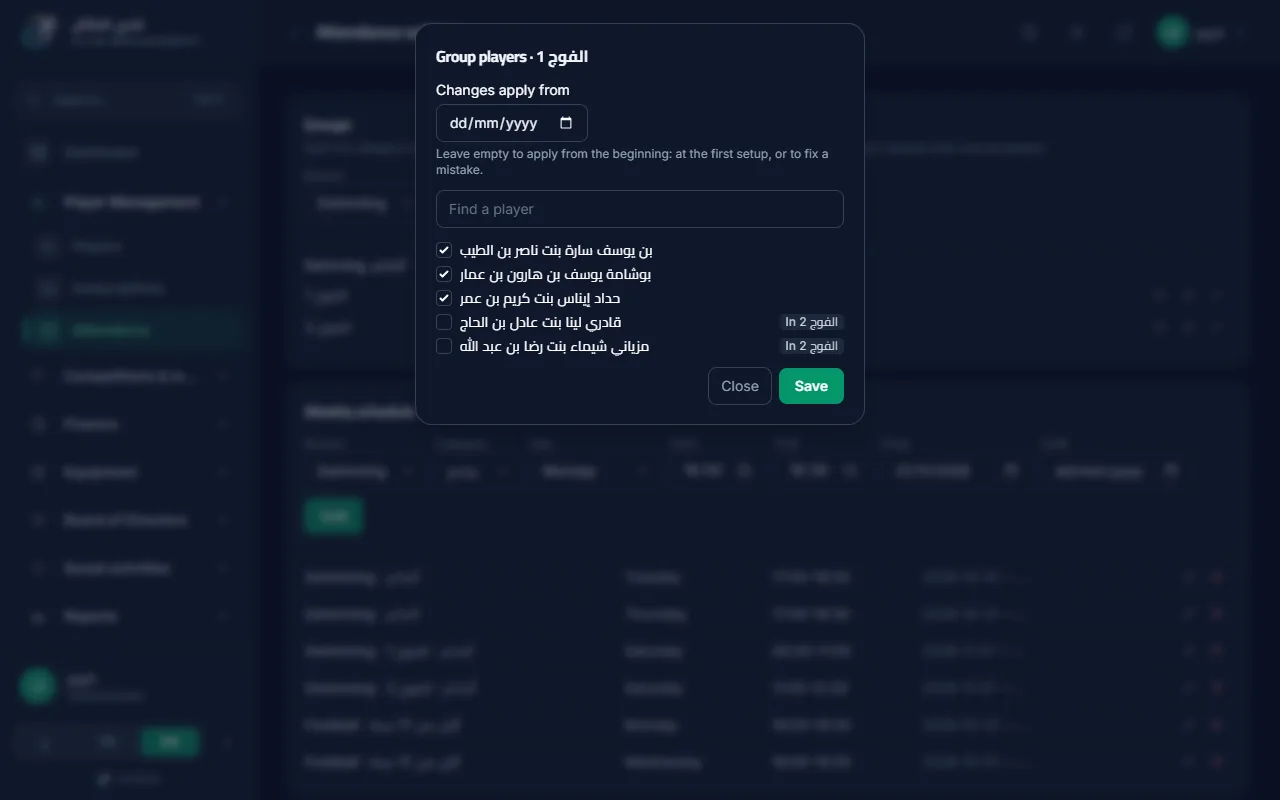
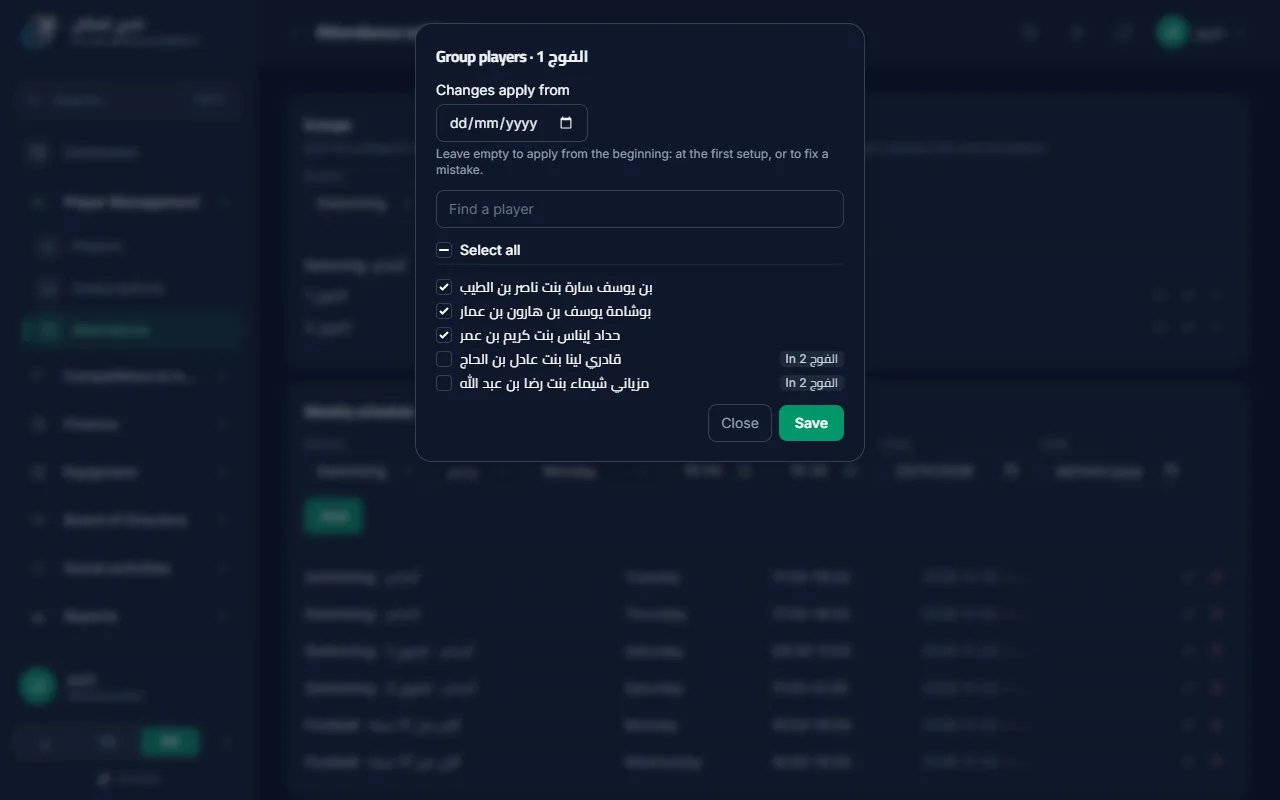
feat(attendance): select all in the group players dialog; its date reaches every ticked player
The dialog sends every ticked player, not only the new ones, so an earlier or
empty "changes apply from" date moves a late start back (players added with
today's date to a group that already had members missed the sessions before).
Today's date leaves players already in the group as they are, and a changed
date alone is now saved. A «select all» box ticks the players shown by the search.

Changed region(s): [[0.3438, 0.2812, 0.5312, 0.5], [0.5625, 0.375, 0.6875, 0.5625]]

diff --git a/resources/js/Pages/Attendance/Partials/GroupsCard.vue b/resources/js/Pages/Attendance/Partials/GroupsCard.vue
@@ -6,7 +6,7 @@ import IconButton from '@/Components/IconButton.vue';
 import InputError from '@/Components/InputError.vue';
 import Modal from '@/Components/Modal.vue';
 import { categoriesForBranch } from '@/lib/categoryPicker';
-import { groupSections, memberChanges } from '@/lib/groupMembers';
+import { groupSections, memberSave, tickAll } from '@/lib/groupMembers';
 import { localToday } from '@/lib/localDate';
 
 const props = defineProps({
@@ -62,7 +62,7 @@ function destroy(group) {
 const sections = computed(() => groupSections(props.groups, props.rosters));
 const waitingOpen = ref(null); // the section key whose waiting names are shown
 
-// ---- Players of one group: a tick list, saved as changes from a date ----
+// ---- Players of one group: a tick list, saved from a date ----
 const open = ref(null); // the group being edited
 const ticked = ref([]);
 const from = ref('');
@@ -75,6 +75,13 @@ const shown = computed(() => {
     return q ? roster.value.filter((p) => p.name.toLowerCase().includes(q)) : roster.value;
 });
 const before = ref([]); // the group's members when the dialog opened: what the ticks are compared with
+const openedFrom = ref(''); // the date the dialog opened with: a changed date alone is worth a save
+// «Select all» ticks or unticks the players shown (the search narrows it).
+const allShown = computed(() => shown.value.length > 0 && shown.value.every((p) => ticked.value.includes(p.id)));
+const someShown = computed(() => !allShown.value && shown.value.some((p) => ticked.value.includes(p.id)));
+function toggleAll(on) {
+    ticked.value = tickAll(ticked.value, shown.value.map((p) => p.id), on);
+}
 function openPlayers(group) {
     open.value = group;
     query.value = '';
@@ -83,10 +90,12 @@ function openPlayers(group) {
     before.value = [...ticked.value];
     // An empty group is a first setup: from the beginning. Later changes default to today.
     from.value = group.members ? today : '';
+    openedFrom.value = from.value;
 }
 function savePlayers() {
-    const { add, remove } = memberChanges(before.value, ticked.value);
-    if (!add.length && !remove.length) {
+    // Every ticked player is sent, so the date reaches the ones already in the group too.
+    const { add, remove, changed } = memberSave(before.value, ticked.value);
+    if (!changed && from.value === openedFrom.value) {
         open.value = null;
         return;
     }
@@ -164,6 +173,10 @@ function savePlayers() {
                 </label>
                 <input v-model="query" type="text" :placeholder="t('att.group_find')" :aria-label="t('att.group_find')" :class="[input, 'block w-full']" />
                 <p v-if="!roster.length" class="text-sm text-slate-500 dark:text-slate-400">{{ t('att.group_no_players') }}</p>
+                <label v-if="shown.length" data-help="group-players-all" class="flex items-center gap-2 border-b border-slate-100 pb-1 text-sm font-medium dark:border-slate-800">
+                    <input type="checkbox" :checked="allShown" :indeterminate="someShown" class="rounded border-slate-300 text-primary-600 dark:border-slate-700 dark:bg-slate-900" @change="toggleAll($event.target.checked)" />
+                    {{ t('select_all') }}
+                </label>
                 <ul data-help="group-players-list" class="max-h-80 space-y-1 overflow-y-auto text-sm">
                     <li v-for="p in shown" :key="p.id">
                         <label class="flex items-center gap-2">

diff --git a/resources/js/lib/groupMembers.js b/resources/js/lib/groupMembers.js
@@ -1,8 +1,4 @@
-/**
- * What saving a group's tick list must send: the players ticked since the
- * dialog opened and the ones unticked. Only changes go to the server, so a
- * player nobody touched keeps their dates.
- */
+/** The players ticked since the dialog opened and the ones unticked. */
 export function memberChanges(before, ticked) {
     const was = new Set(before.map(Number));
     const now = new Set(ticked.map(Number));
@@ -11,6 +7,28 @@ export function memberChanges(before, ticked) {
         add: [...now].filter((id) => !was.has(id)),
         remove: [...was].filter((id) => !now.has(id)),
     };
+}
+
+/**
+ * What saving a group's tick list sends: every ticked player (not only the new
+ * ones), so the "changes apply from" date also reaches players already in the
+ * group: an earlier or empty date moves their start back, today's date leaves
+ * them as they are (GroupMembership::add). `changed` = a tick moved.
+ */
+export function memberSave(before, ticked) {
+    const { add, remove } = memberChanges(before, ticked);
+
+    return { add: ticked.map(Number), remove, changed: add.length > 0 || remove.length > 0 };
+}
+
+/** The tick list after "select all": the shown players ticked or unticked, the others kept. */
+export function tickAll(ticked, shownIds, on) {
+    const current = ticked.map(Number);
+    const shown = shownIds.map(Number);
+
+    return on
+        ? [...current, ...shown.filter((id) => !current.includes(id))]
+        : current.filter((id) => !shown.includes(id));
 }
 
 /**

diff --git a/tests/Feature/AttendanceGroupsTest.php b/tests/Feature/AttendanceGroupsTest.php
@@ -149,6 +149,35 @@ class AttendanceGroupsTest extends TestCase
     }
 
     #[Test]
+    public function saving_every_ticked_player_moves_a_late_start_back_and_keeps_an_earlier_one(): void
+    {
+        // The owner's case: players added with today's date when the group already existed.
+        $this->travelTo('2026-11-23 10:00:00');
+        $admin = $this->admin();
+        $group = $this->group();
+        [$early, $late] = [$this->swimmer(), $this->swimmer()];
+        $membership = app(GroupMembership::class);
+        $membership->add($group, $early->id, null);
+        $membership->add($group, $late->id, '2026-11-22');
+        $rows = fn () => TrainingGroupMember::orderBy('player_id')->get()->map(fn ($m) => [$m->player_id, $m->from_date, $m->to_date])->all();
+
+        // Today's date (the dialog's default) changes nobody already in the group.
+        $this->actingAs($admin)->put(route('attendance.groups.members.update', $group), ['from' => '2026-11-23', 'add' => [$early->id, $late->id], 'remove' => []])
+            ->assertSessionHasNoErrors();
+        $this->assertSame([[$early->id, null, null], [$late->id, '2026-11-22', null]], $rows());
+
+        // An earlier date moves the late start back; the earlier one stays.
+        $this->actingAs($admin)->put(route('attendance.groups.members.update', $group), ['from' => '2026-11-17', 'add' => [$early->id, $late->id], 'remove' => []])
+            ->assertSessionHasNoErrors();
+        $this->assertSame([[$early->id, null, null], [$late->id, '2026-11-17', null]], $rows());
+
+        // No date: everyone ticked is in the group from the beginning.
+        $this->actingAs($admin)->put(route('attendance.groups.members.update', $group), ['from' => null, 'add' => [$early->id, $late->id], 'remove' => []])
+            ->assertSessionHasNoErrors();
+        $this->assertSame([[$early->id, null, null], [$late->id, null, null]], $rows());
+    }
+
+    #[Test]
     public function a_player_of_another_category_cannot_be_ticked(): void
     {
         $cadet = Category::create(['name' => 'Cadet', 'branch_id' => $this->swim->id]);

diff --git a/resources/help/ar/attendance/training-groups.md b/resources/help/ar/attendance/training-groups.md
@@ -23,7 +23,7 @@ related: [attendance/timetable, attendance/month-grid, players/branch-registrati
 :::
 
 :::step ضع علامة على لاعبي كل فوج
-في سطر «الفوج 1»، اضغط على الزر الذي عليه رسم شخصين. عندما تضع الفأرة عليه يظهر اسمه «لاعبو الفوج». تظهر قائمة لاعبي الفئة. ضع علامة أمام سارة وإيناس ويوسف. في أول مرة، خانة التاريخ فارغة: اتركها كذلك. اضغط «حفظ». تظهر عبارة «تم حفظ لاعبي الفوج.». افعل الشيء نفسه مع «الفوج 2».
+في سطر «الفوج 1»، اضغط على الزر الذي عليه رسم شخصين. عندما تضع الفأرة عليه يظهر اسمه «لاعبو الفوج». تظهر قائمة لاعبي الفئة. ضع علامة أمام سارة وإيناس ويوسف. كل لاعبي الفئة في هذا الفوج؟ ضع علامة في «تحديد الكل» أعلى القائمة. في أول مرة، خانة التاريخ فارغة: اتركها كذلك. اضغط «حفظ». تظهر عبارة «تم حفظ لاعبي الفوج.». افعل الشيء نفسه مع «الفوج 2».
 ::figure set-group-list ring=set-group-players zoom=set-group-players
 ::figure set-group-dialog ring=group-players-list,group-players-save
 :::
@@ -46,6 +46,8 @@ related: [attendance/timetable, attendance/month-grid, players/branch-registrati
 قبل يوم الانتقال، تبقى سارة في قائمة «الفوج 1» في الحصص التي لم يُسجَّل حضورها. ومن ذلك اليوم تظهر مع «الفوج 2». الحصة التي سُجّل حضورها لا تتغيّر أبدًا.
 
 أخطأت في الفوج من البداية؟ امسح تاريخ «تُطبَّق التغييرات من» قبل الحفظ: يُطبَّق التغيير من البداية.
+
+أضفت لاعبين إلى فوج فيه لاعبون وتركت تاريخ اليوم؟ لا يظهرون في الحصص التي قبل اليوم. لتصحيح ذلك، افتح «لاعبو الفوج»، امسح التاريخ أو اختر يومًا أقدم، ثم اضغط «حفظ». التاريخ يُطبَّق على كل لاعب عليه علامة.
 
 غيّرت فئة اللاعب؟ يخرج من فوجه ابتداءً من تاريخ «تُطبَّق التغييرات من». هنا لا يمكن ترك التاريخ فارغًا، حتى يبقى تاريخه في الفوج القديم.
 

diff --git a/resources/help/fr/attendance/training-groups.md b/resources/help/fr/attendance/training-groups.md
@@ -23,7 +23,7 @@ Dans la carte « Groupes », choisissez « Natation » dans « Section »,
 :::
 
 :::step Cochez les joueurs de chaque groupe
-Sur la ligne de « الفوج 1 », cliquez sur le bouton avec le dessin de deux personnes. Son nom « Joueurs du groupe » s'affiche quand vous passez la souris dessus. La liste des joueurs de la catégorie s'affiche. Cochez سارة, إيناس et يوسف. La première fois, le champ de date est vide : laissez-le ainsi. Cliquez sur « Enregistrer ». Le message « Joueurs du groupe enregistrés. » s'affiche. Faites de même pour « الفوج 2 ».
+Sur la ligne de « الفوج 1 », cliquez sur le bouton avec le dessin de deux personnes. Son nom « Joueurs du groupe » s'affiche quand vous passez la souris dessus. La liste des joueurs de la catégorie s'affiche. Cochez سارة, إيناس et يوسف. Toute la catégorie dans ce groupe ? Cochez « Tout sélectionner » en haut de la liste. La première fois, le champ de date est vide : laissez-le ainsi. Cliquez sur « Enregistrer ». Le message « Joueurs du groupe enregistrés. » s'affiche. Faites de même pour « الفوج 2 ».
 ::figure set-group-list ring=set-group-players zoom=set-group-players
 ::figure set-group-dialog ring=group-players-list,group-players-save
 :::
@@ -46,6 +46,8 @@ Ouvrez la page de سارة, et cliquez sur le bouton « Modifier le joueur ».
 Avant le jour du changement, سارة reste sur la liste de « الفوج 1 » dans les séances dont les présences ne sont pas enregistrées. À partir de ce jour, elle apparaît avec « الفوج 2 ». Une séance dont les présences sont enregistrées ne change jamais.
 
 Vous vous êtes trompé de groupe dès le début ? Effacez la date de « Changements appliqués à partir du » avant d'enregistrer : le changement s'applique depuis le début.
+
+Vous avez ajouté des joueurs à un groupe qui en avait déjà, avec la date du jour ? Ils n'apparaissent pas dans les séances d'avant ce jour. Pour corriger, ouvrez « Joueurs du groupe », effacez la date ou choisissez un jour plus ancien, puis cliquez sur « Enregistrer ». La date s'applique à chaque joueur coché.
 
 Vous avez changé la catégorie du joueur ? Il quitte son groupe à partir de la date « Changements appliqués à partir du ». Ici, la date ne peut pas rester vide, pour garder son passage dans l'ancien groupe.
 

diff --git a/resources/help/en/attendance/training-groups.md b/resources/help/en/attendance/training-groups.md
@@ -23,7 +23,7 @@ In the “Groups” card, choose “Swimming” in “Branch”, and “أصاغ
 :::
 
 :::step Tick the players of each group
-On the “الفوج 1” row, click the button with a drawing of two people. Its name, “Group players”, shows when you hover the mouse over it. The list of the category's players appears. Tick سارة, إيناس and يوسف. The first time, the date field is empty: leave it empty. Click “Save”. The message “Group players saved.” appears. Do the same for “الفوج 2”.
+On the “الفوج 1” row, click the button with a drawing of two people. Its name, “Group players”, shows when you hover the mouse over it. The list of the category's players appears. Tick سارة, إيناس and يوسف. The whole category in this group? Tick “Select all” at the top of the list. The first time, the date field is empty: leave it empty. Click “Save”. The message “Group players saved.” appears. Do the same for “الفوج 2”.
 ::figure set-group-list ring=set-group-players zoom=set-group-players
 ::figure set-group-dialog ring=group-players-list,group-players-save
 :::
@@ -46,6 +46,8 @@ Open سارة's page, and click the “Edit Player” button. In the “Swimming
 Before the day of the move, سارة stays on the “الفوج 1” list in the sessions whose attendance is not saved yet. From that day on, she appears with “الفوج 2”. A session whose attendance is saved never changes.
 
 Was the group wrong from the start? Clear the “Changes apply from” date before saving: the change applies from the beginning.
+
+Added players to a group that already had some, with today's date? They don't show in the sessions before today. To fix it, open “Group players”, clear the date or pick an earlier day, then click “Save”. The date applies to every ticked player.
 
 Changed the player's category? They leave their group from the “Changes apply from” date. Here the date cannot stay empty, so their time in the old group is kept.
 
